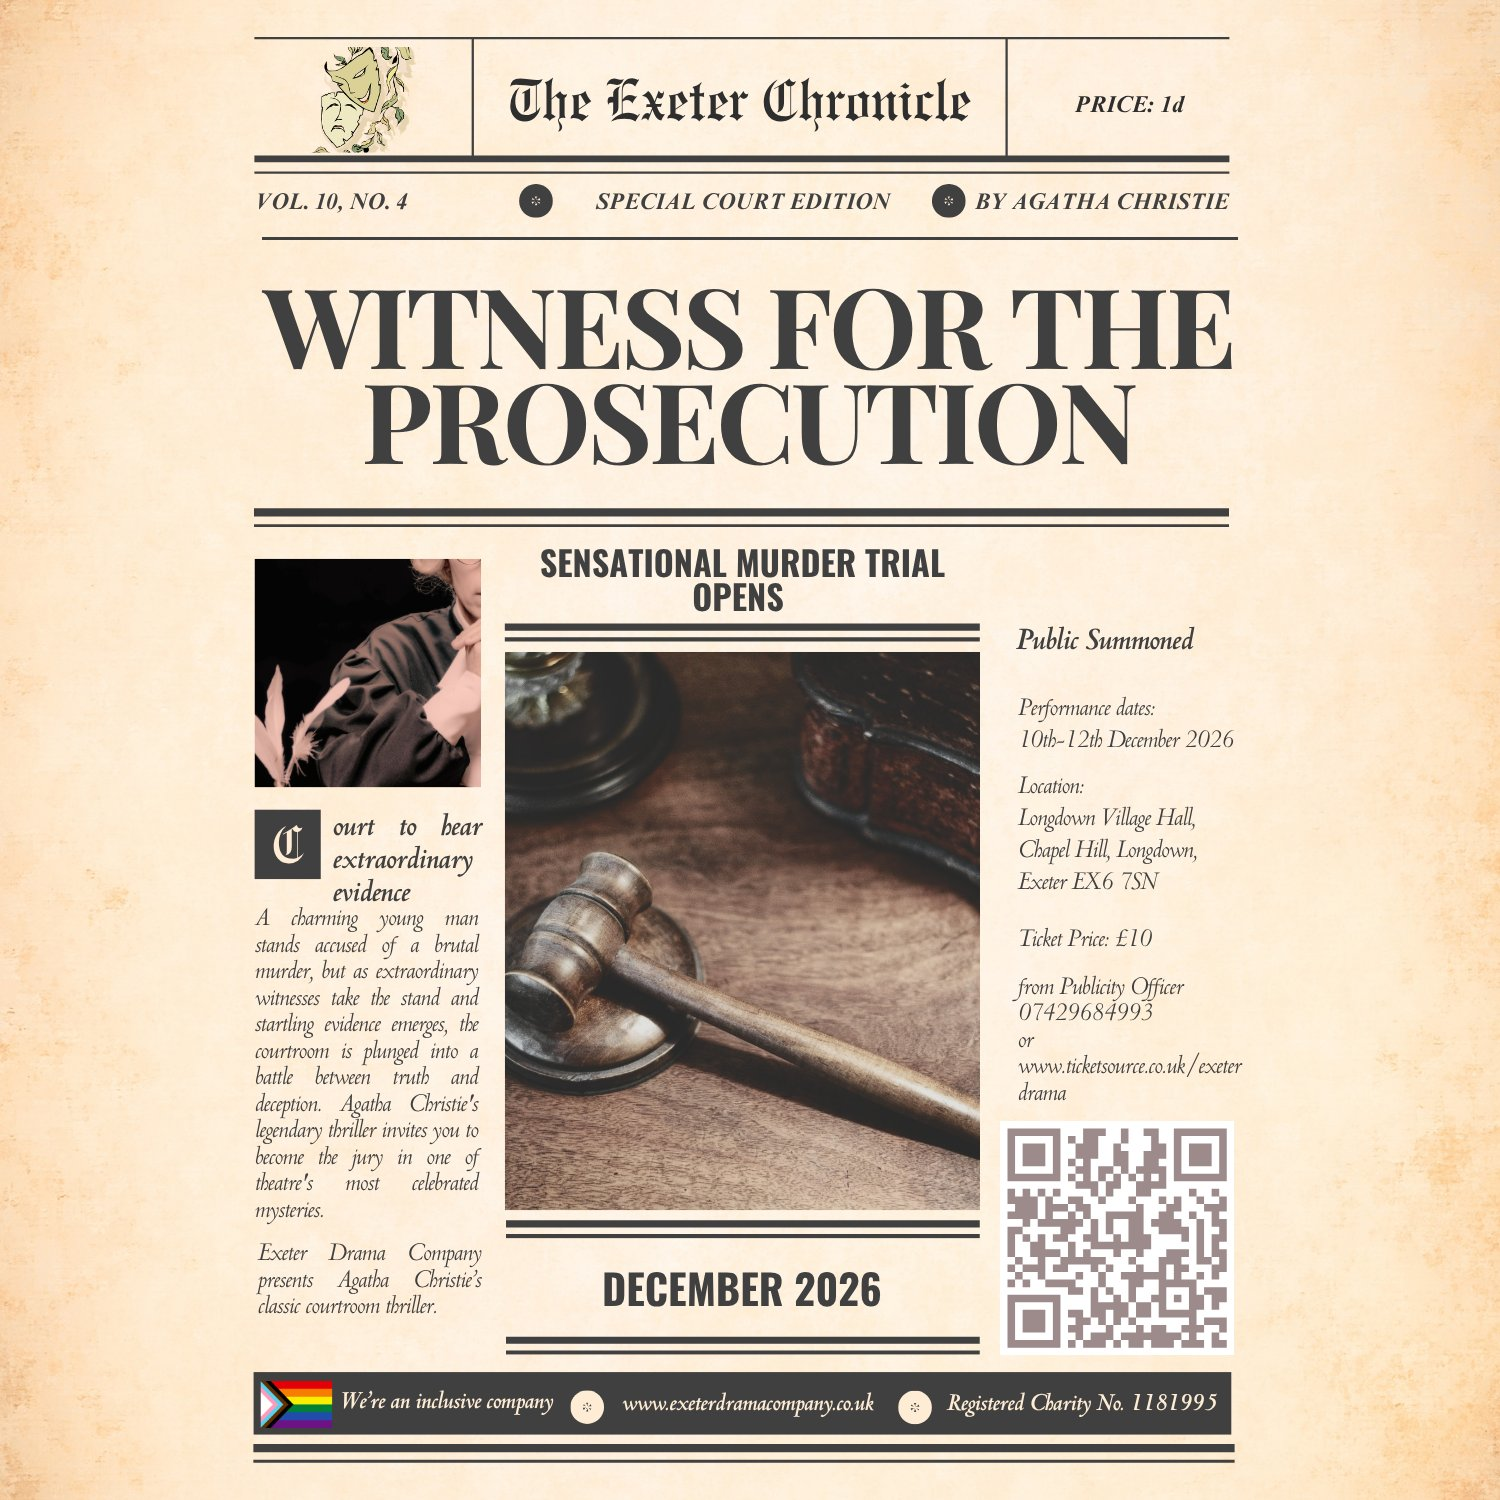
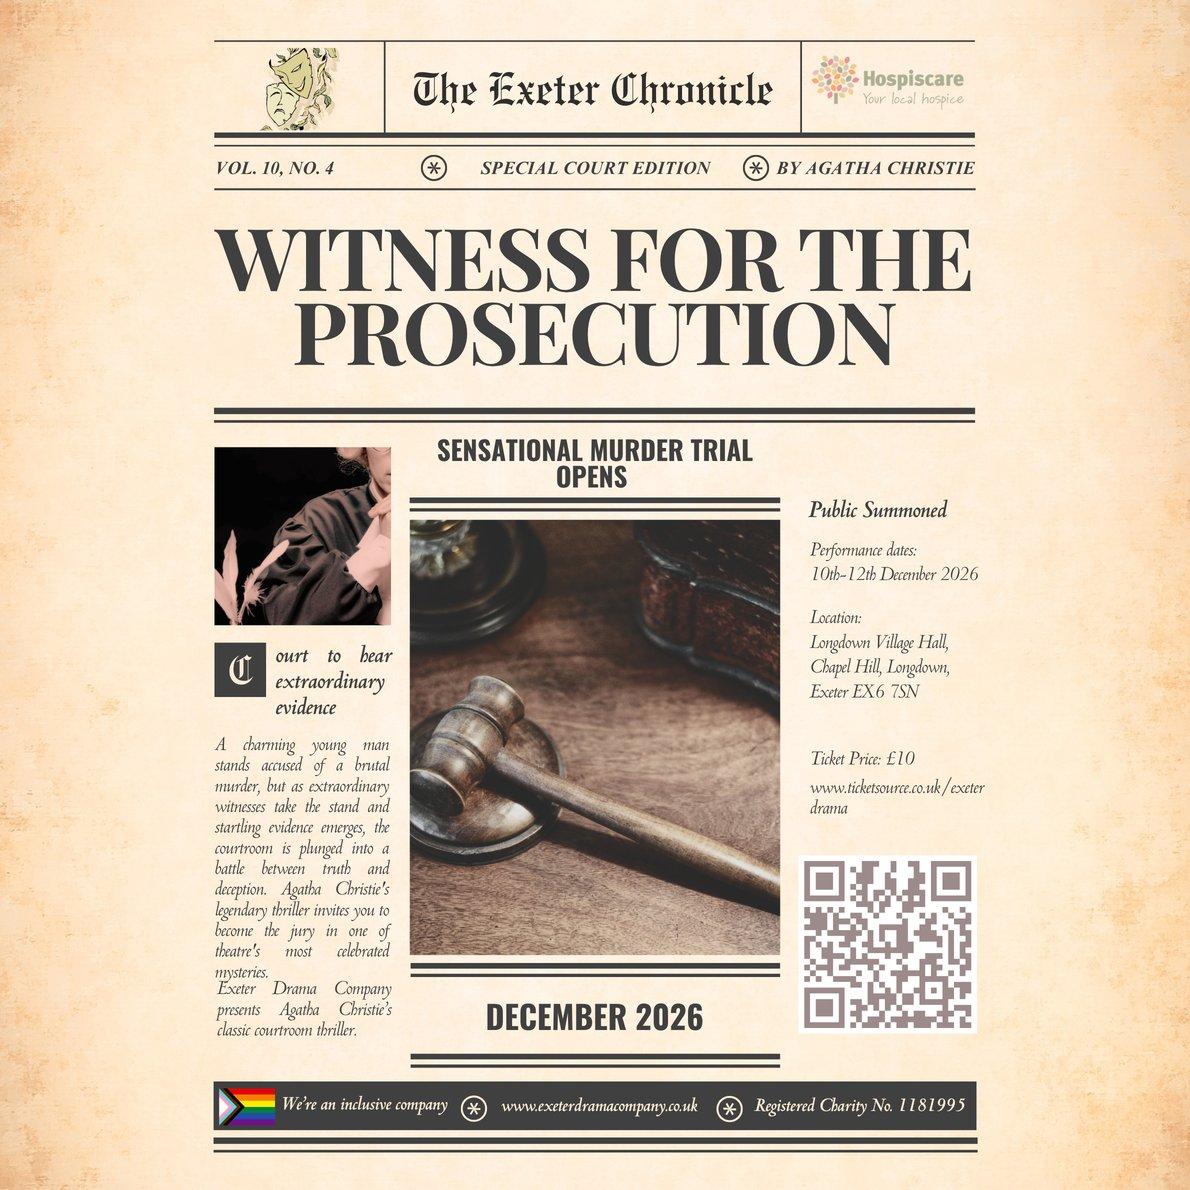
Add poster for Witness for the Prosecution

diff --git a/_playFuture/witnessfortheprosecution2026.md b/_playFuture/witnessfortheprosecution2026.md
@@ -5,7 +5,7 @@ author: Agatha Christie
 #director:
 resource_root: /assets/img/play/witnessfortheprosecution2026
 poster_thumb: witnessfortheprosecution2026thumb.jpg
-#poster: witnessfortheprosecution2026poster.jpg
+poster: witnessfortheprosecution2026poster.jpg
 #poster_pdf: witnessfortheprosecution2026poster.pdf
 #booking_form: witnessfortheprosecution2026bookingform.pdf
 booking_active: false
@@ -14,7 +14,7 @@ location_verbose: Longdown Village Hall, Chapel Hill, Longdown, EX6 7SN
 date: 2026-12-10
 time: 7:30 pm
 date_human: 10th - 12th December 2026
-featured_on_index: false
+featured_on_index: true
 #overview_img: witnessfortheprosecution2026-1.jpg
 ---
 

diff --git a/_playFuture/theimportanceofbeingearnest2026.md b/_playFuture/theimportanceofbeingearnest2026.md
@@ -8,13 +8,13 @@ poster_thumb: theimportanceofbeingearnest2026thumb.jpg
 poster: theimportanceofbeingearnest2026poster.jpg
 #poster_pdf: theimportanceofbeingearnest2026poster.pdf
 #booking_form: theimportanceofbeingearnest2026bookingform.pdf
-booking_active: true
+booking_active: false
 location: Longdown Village Hall
 location_verbose: Longdown Village Hall, Chapel Hill, Longdown, EX6 7SN
 date: 2026-09-24
 time: 7:30 pm
 date_human: 24th - 26th September 2026
-featured_on_index: true
+featured_on_index: false
 #overview_img: theimportanceofbeingearnest2026-1.jpg
 cast:
   - - Lane
